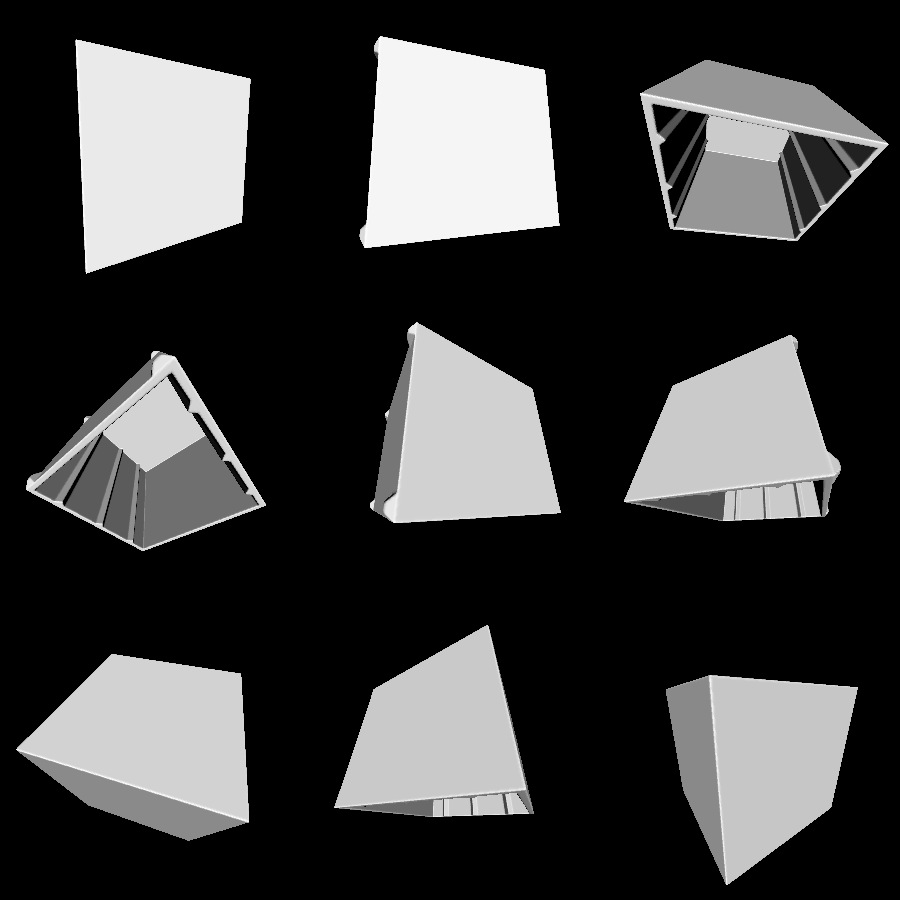
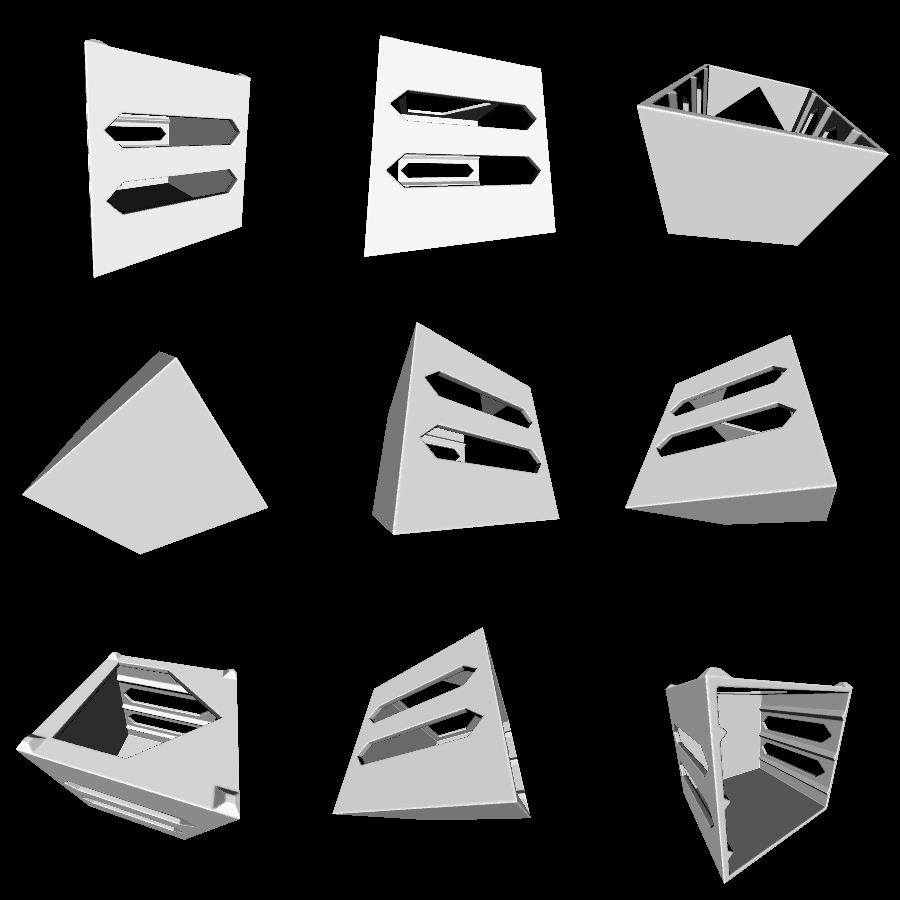
cut holes in frame to reduce material use

diff --git a/examples/usable/drawer/frame.go b/examples/usable/drawer/frame.go
@@ -57,7 +57,21 @@ func CreateFrame() model3d.Solid {
 		}
 	}
 
-	return solid
+	// Frame holes.
+	var holes model3d.JoinedSolid
+	for i := 0; i < DrawerCount-1; i++ {
+		holes = append(holes, &FrameHole{Z: float64(i+1) * DrawerHeight})
+	}
+	holes = append(holes, BottomFrameHole{})
+
+	transform := &model3d.Matrix3Transform{
+		Matrix: &model3d.Matrix3{
+			1, 0, 0,
+			0, 0, -1,
+			0, -1, 0,
+		},
+	}
+	return transform.ApplySolid(&model3d.SubtractedSolid{Positive: solid, Negative: holes})
 }
 
 func CreateRidge(z float64, onRight bool) model3d.Solid {
@@ -101,4 +115,58 @@ func CreateFoot(x, y float64) model3d.Solid {
 		P1: center.Sub(model3d.Coord3D{Z: FrameFootRampHeight}),
 		P2: center,
 	}
+}
+
+type FrameHole struct {
+	Z float64
+}
+
+func (f *FrameHole) Min() model3d.Coord3D {
+	return model3d.Coord3D{
+		X: -FrameThickness - 1e-5,
+		Y: FrameHoleMargin,
+		Z: f.Z - FrameHoleWidth/2,
+	}
+}
+
+func (f *FrameHole) Max() model3d.Coord3D {
+	return model3d.Coord3D{
+		X: DrawerWidth + FrameThickness + 1e-5,
+		Y: DrawerDepth + FrameThickness - FrameHoleMargin,
+		Z: f.Z + FrameHoleWidth/2,
+	}
+}
+
+func (f *FrameHole) Contains(c model3d.Coord3D) bool {
+	if !model3d.InSolidBounds(f, c) {
+		return false
+	}
+	edgeDist := math.Min(math.Min(c.Y-f.Min().Y, f.Max().Y-c.Y), FrameHoleWidth/2)
+	return math.Abs(c.Z-f.Z) <= edgeDist
+}
+
+type BottomFrameHole struct{}
+
+func (b BottomFrameHole) Min() model3d.Coord3D {
+	return model3d.Coord3D{
+		X: (DrawerWidth - BottomHoleRadius) / 2,
+		Y: (DrawerDepth - BottomHoleRadius) / 2,
+		Z: -(FrameThickness + 1e-5),
+	}
+}
+
+func (b BottomFrameHole) Max() model3d.Coord3D {
+	return model3d.Coord3D{
+		X: (DrawerWidth + BottomHoleRadius) / 2,
+		Y: (DrawerDepth + BottomHoleRadius) / 2,
+		Z: 1e-5,
+	}
+}
+
+func (b BottomFrameHole) Contains(c model3d.Coord3D) bool {
+	if !model3d.InSolidBounds(b, c) {
+		return false
+	}
+	mid := b.Min().Mid(b.Max())
+	return math.Abs(c.X-mid.X) <= c.Y-b.Min().Y
 }

diff --git a/examples/usable/drawer/main.go b/examples/usable/drawer/main.go
@@ -25,6 +25,10 @@ const (
 	FrameFootWidth      = 0.6
 	FrameFootHeight     = 0.2
 	FrameFootRampHeight = FrameFootWidth / 2
+	FrameHoleWidth      = 1.0
+	FrameHoleMargin     = 0.4
+
+	BottomHoleRadius = 5.0
 
 	RidgeDepth = 0.2
 
